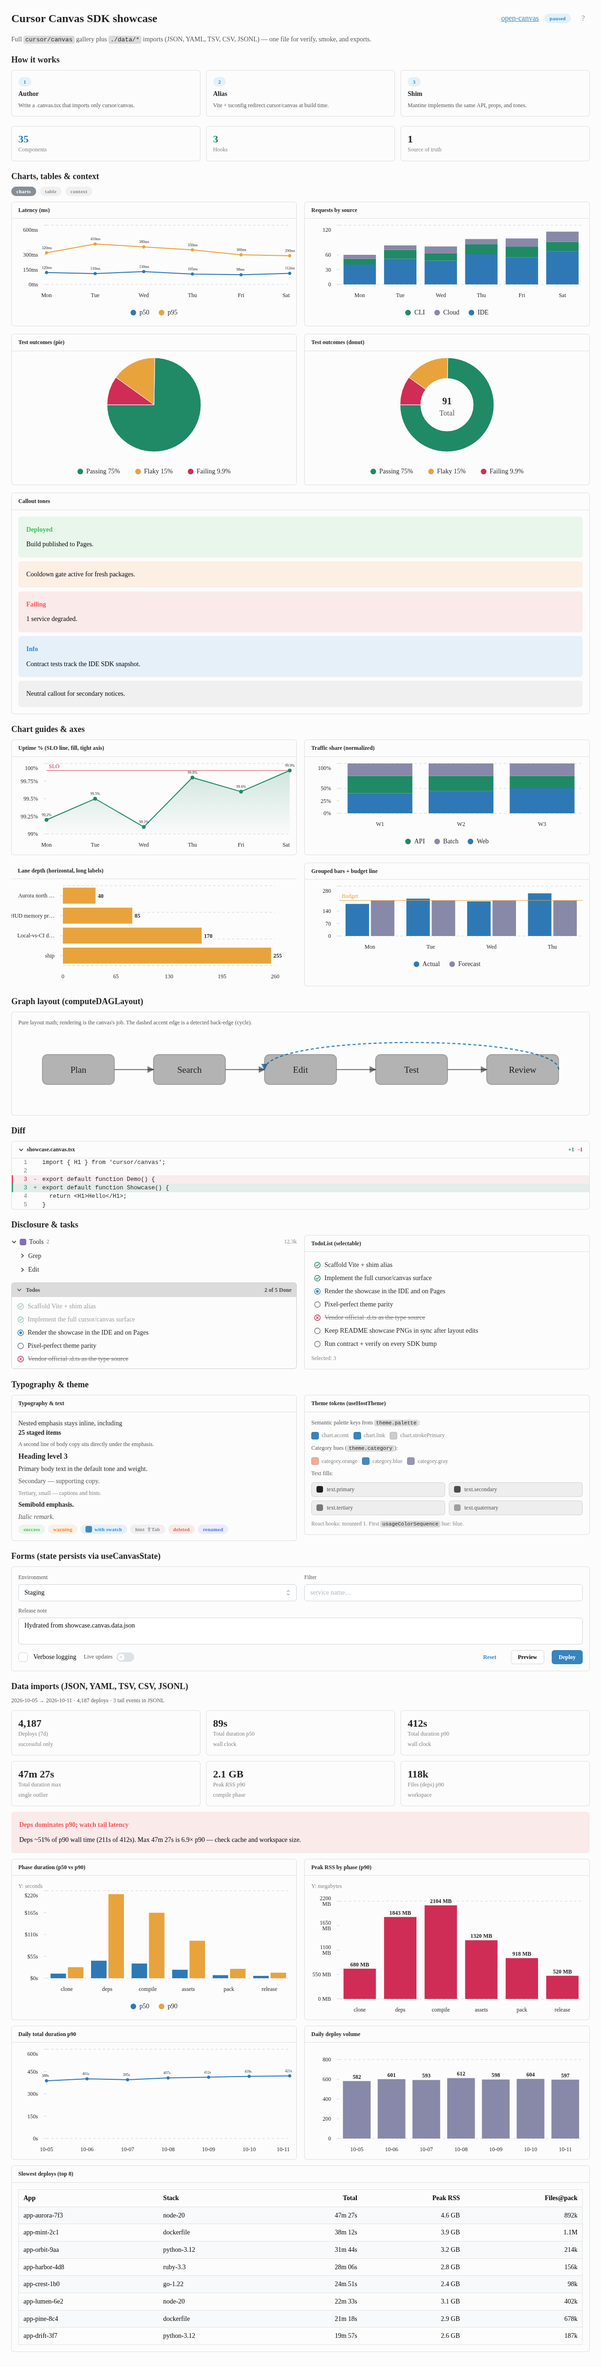
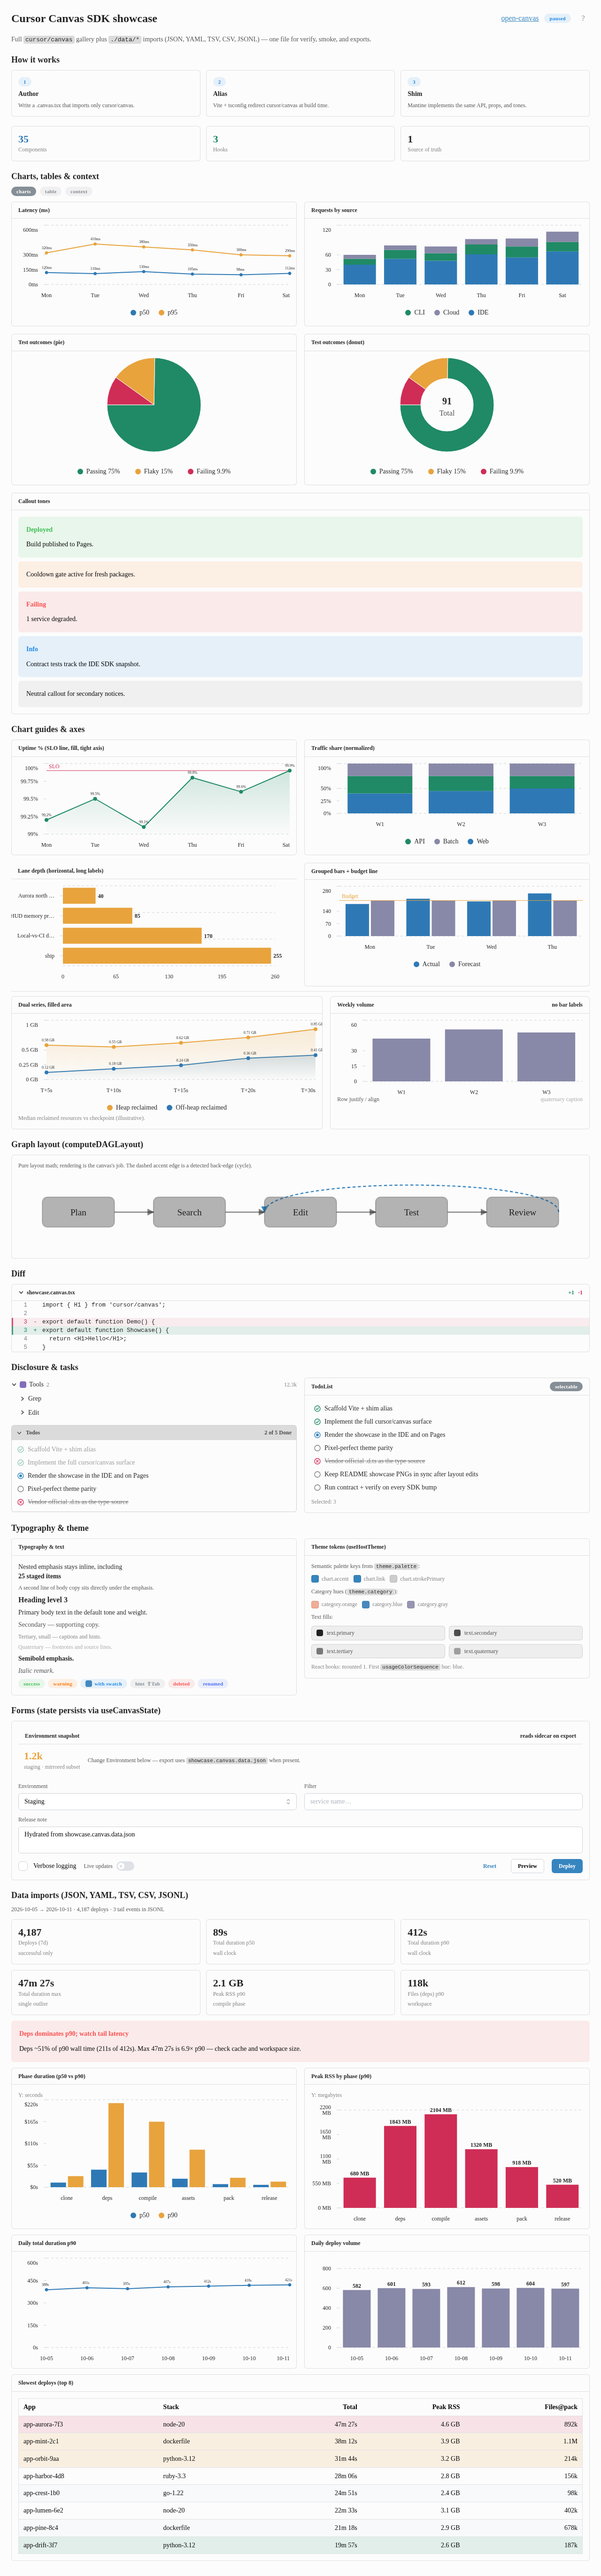
Extend the showcase canvas with more supported features

diff --git a/example/showcase.canvas.tsx b/example/showcase.canvas.tsx
@@ -3,7 +3,7 @@
  *
  * Single example for verify, smoke, contract, and the README screenshot.
  */
-import { BarChart, Button, Callout, Card, CardBody, CardHeader, Checkbox, Code, CollapsibleSection, DiffStats, DiffView, Grid, H1, H2, H3, IconButton, LineChart, Link, PieChart, Pill, Row, Select, Spacer, Stack, Stat, Swatch, Table, Text, TextArea, TextInput, TodoList, TodoListCard, Toggle, UsageBar, computeDAGLayout, mergeStyle, usageColorSequence, useCanvasAction, useCanvasState, useEffect, useHostTheme, useMemo, useRef, useState, type ChartSeries, type Color, type DiffLineData, type StackProps, type TodoItem } from 'cursor/canvas'
+import { BarChart, Button, Callout, Card, CardBody, CardHeader, Checkbox, Code, CollapsibleSection, DiffStats, DiffView, Divider, Grid, H1, H2, H3, IconButton, LineChart, Link, PieChart, Pill, Row, Select, Spacer, Stack, Stat, Swatch, Table, Text, TextArea, TextInput, TodoList, TodoListCard, Toggle, UsageBar, canvasPaletteGrokDark, canvasPaletteGrokLight, computeDAGLayout, mergeStyle, usageColorSequence, useCanvasAction, useCanvasState, useEffect, useHostTheme, useMemo, useRef, useState, type ChartSeries, type Color, type DiffLineData, type StackProps, type TableRowTone, type TodoItem } from 'cursor/canvas'
 import daily from './data/daily.tsv'
 import deployEvents from './data/deploy-events.jsonl'
 import outlierRows from './data/outliers.csv'
@@ -50,6 +50,23 @@ const TRAFFIC_SHARE: ChartSeries[] = [
 	{ name: 'Batch', data: [25, 25, 25], tone: 'neutral' },
 ]
 const SHARE_WEEKS = ['W1', 'W2', 'W3']
+
+const DRAIN_CHECKPOINTS = ['T+5s', 'T+10s', 'T+15s', 'T+20s', 'T+30s']
+const DRAIN_SERIES: ChartSeries[] = [
+	{ name: 'Off-heap reclaimed', data: [0.12, 0.18, 0.24, 0.36, 0.41], tone: 'info' },
+	{ name: 'Heap reclaimed', data: [0.58, 0.55, 0.62, 0.71, 0.85], tone: 'warning' },
+]
+
+function serviceTableRows(): {
+	tone?: TableRowTone;
+	row: [string, string, string]
+}[] {
+	return [
+		{ row: ['api-gateway', 'healthy', '3.2k'], tone: 'success' },
+		{ row: ['workers', 'hot', '8.1k'], tone: 'warning' },
+		{ row: ['billing', 'down', '0'], tone: 'danger' },
+	]
+}
 const OUTCOMES = [
 	{ label: 'Passing', value: 68, tone: 'success' as const },
 	{ label: 'Flaky', value: 14, tone: 'warning' as const },
@@ -319,7 +336,36 @@ export default function ShowcaseCanvas() {
 	)
 
 	const { meta, kpis, durationByPhase } = report
+	const grokPalette =
+		theme.kind === 'light' ? canvasPaletteGrokLight : canvasPaletteGrokDark
 	const cap = { color: theme.text.tertiary, fontSize: 12 }
+
+	const envTraffic = useMemo(() => {
+		if (env === 'staging') {
+			return { rps: '1.2k', tone: 'warning' as const, hint: 'mirrored subset' }
+		}
+		if (env === 'dev') {
+			return { rps: '120', tone: 'info' as const, hint: 'local stack' }
+		}
+		return { rps: '3.2k', tone: 'success' as const, hint: 'primary region' }
+	}, [env])
+
+	const outlierRowTone = useMemo(
+		() =>
+			outlierRows.map((_, i) => {
+				if (i === 0) {
+					return 'danger' as const
+				}
+				if (i < 3) {
+					return 'warning' as const
+				}
+				if (i === outlierRows.length - 1) {
+					return 'success' as const
+				}
+				return undefined
+			}),
+		[],
+	)
 	const rssRows =
 		(phaseRssMb as { rows?: Array<{ phase: string; p90: number }> }).rows ?? []
 	const phases = durationByPhase.rows.map(r => r.phase)
@@ -498,13 +544,23 @@ export default function ShowcaseCanvas() {
 						<Table
 							headers={['Service', 'Status', 'RPS']}
 							columnAlign={['left', 'left', 'right']}
-							rowTone={['success', undefined, 'danger']}
+							rowTone={serviceTableRows().map(r => r.tone)}
 							striped
-							rows={[
-								['api-gateway', <Pill tone="success">healthy</Pill>, '3.2k'],
-								['workers', <Pill tone="warning">hot</Pill>, '8.1k'],
-								['billing', <Pill tone="deleted">down</Pill>, '0'],
-							]}
+							rows={serviceTableRows().map(r => [
+								r.row[0],
+								<Pill
+									tone={
+										r.tone === 'success'
+											? 'success'
+											: r.tone === 'warning'
+												? 'warning'
+												: 'deleted'
+									}
+								>
+									{r.row[1]}
+								</Pill>,
+								r.row[2],
+							])}
 						/>
 					)}
 
@@ -621,6 +677,53 @@ export default function ShowcaseCanvas() {
 						</CardBody>
 					</Card>
 				</Grid>
+				<Divider />
+				<Grid columns="1.2fr 1fr" gap={16}>
+					<Card>
+						<CardHeader>Dual series, filled area</CardHeader>
+						<CardBody>
+							<LineChart
+								categories={DRAIN_CHECKPOINTS}
+								series={DRAIN_SERIES}
+								height={200}
+								fill
+								beginAtZero
+								valueSuffix=" GB"
+								showValues
+							/>
+							<Text size="small" tone="tertiary">
+								Median reclaimed resources vs checkpoint (illustrative).
+							</Text>
+						</CardBody>
+					</Card>
+					<Card>
+						<CardHeader trailing="no bar labels">
+							Weekly volume
+						</CardHeader>
+						<CardBody>
+							<BarChart
+								categories={SHARE_WEEKS}
+								series={[
+									{
+										name: 'Builds',
+										data: [42, 51, 48],
+										tone: 'neutral',
+									},
+								]}
+								height={160}
+								showValues={false}
+							/>
+							<Row justify="space-between" align="end">
+								<Text size="small" tone="secondary">
+									Row justify / align
+								</Text>
+								<Text size="small" tone="quaternary">
+									quaternary caption
+								</Text>
+							</Row>
+						</CardBody>
+					</Card>
+				</Grid>
 			</Section>
 
 			{/* Graph ---------------------------------------------------------- */}
@@ -687,7 +790,9 @@ export default function ShowcaseCanvas() {
 						/>
 					</Stack>
 					<Card>
-						<CardHeader>TodoList (selectable)</CardHeader>
+						<CardHeader trailing={<Pill active>selectable</Pill>}>
+							TodoList
+						</CardHeader>
 						<CardBody>
 							<TodoList
 								todos={TODOS_SELECTABLE}
@@ -724,6 +829,9 @@ export default function ShowcaseCanvas() {
 								<Text tone="secondary">Secondary — supporting copy.</Text>
 								<Text tone="tertiary" size="small">
 									Tertiary, small — captions and hints.
+								</Text>
+								<Text tone="quaternary" size="small">
+									Quaternary — footnotes and source lines.
 								</Text>
 								<Text weight="semibold">Semibold emphasis.</Text>
 								<Text italic tone="secondary">
@@ -847,11 +955,101 @@ export default function ShowcaseCanvas() {
 				</Grid>
 			</Section>
 
+			<Section title="Host brand (Cursor vs Grok)">
+				<Stack gap={10}>
+					<Row gap={8} wrap>
+						<Pill active={theme.brand === 'cursor'}>brand: {theme.brand}</Pill>
+						<Text size="small" tone="secondary">
+							<Code>useHostTheme().brand</Code> from the host (open-canvas{' '}
+							<Code>--brand grok</Code> for export).
+						</Text>
+					</Row>
+					<Row gap={16} wrap>
+						<Card size="base">
+							<CardHeader>
+								<Text weight="semibold">Active accent (host)</Text>
+							</CardHeader>
+							<CardBody>
+								<Row gap={8}>
+									<span
+										style={{
+											width: 120,
+											height: 32,
+											borderRadius: theme.radius.md,
+											background: theme.palette.accent,
+											border: `1px solid ${theme.stroke.secondary}`,
+										}}
+									/>
+									<Text size="small" tone="secondary">
+										{theme.palette.accent}
+									</Text>
+								</Row>
+							</CardBody>
+						</Card>
+						{theme.brand === 'cursor' ? (
+							<Card size="base" variant="borderless">
+								<CardHeader>
+									<Text weight="semibold">Grok reference</Text>
+								</CardHeader>
+								<CardBody>
+									<Row gap={8}>
+										<span
+											style={{
+												width: 120,
+												height: 32,
+												borderRadius: 8,
+												background: grokPalette.accent,
+												border: `1px solid ${theme.stroke.secondary}`,
+											}}
+										/>
+										<Text size="small" tone="secondary">
+											{grokPalette.accent}
+										</Text>
+									</Row>
+								</CardBody>
+							</Card>
+						) : null}
+					</Row>
+					<BarChart
+						categories={['A', 'B', 'C']}
+						series={[
+							{ name: 's1', data: [3, 5, 2], tone: 'info' },
+							{ name: 's2', data: [2, 4, 6], tone: 'success' },
+						]}
+						height={140}
+					/>
+				</Stack>
+			</Section>
+
 			{/* Forms ---------------------------------------------------------- */}
 			<Section title="Forms (state persists via useCanvasState)">
 				<Card>
 					<CardBody>
 						<Stack gap={12}>
+							<Card variant="borderless">
+								<CardHeader trailing="reads sidecar on export">
+									Environment snapshot
+								</CardHeader>
+								<CardBody
+									style={{
+										background: theme.bg.editor,
+										borderRadius: 8,
+										padding: 12,
+									}}
+								>
+									<Row gap={16} wrap align="center">
+										<Stat
+											value={envTraffic.rps}
+											label={`${env} · ${envTraffic.hint}`}
+											tone={envTraffic.tone}
+										/>
+										<Text size="small" tone="secondary">
+											Change Environment below —{' '}
+											<Code>.canvas.data.json</Code> is inlined on export.
+										</Text>
+									</Row>
+								</CardBody>
+							</Card>
 							<Grid columns={2} gap={16}>
 								<Stack gap={6}>
 									<Text size="small" tone="secondary" weight="medium">
@@ -1017,6 +1215,7 @@ export default function ShowcaseCanvas() {
 							<Table
 								headers={OUTLIER_TABLE.headers}
 								columnAlign={['left', 'left', 'right', 'right', 'right']}
+								rowTone={outlierRowTone}
 								rows={OUTLIER_TABLE.rows}
 								striped
 							/>
